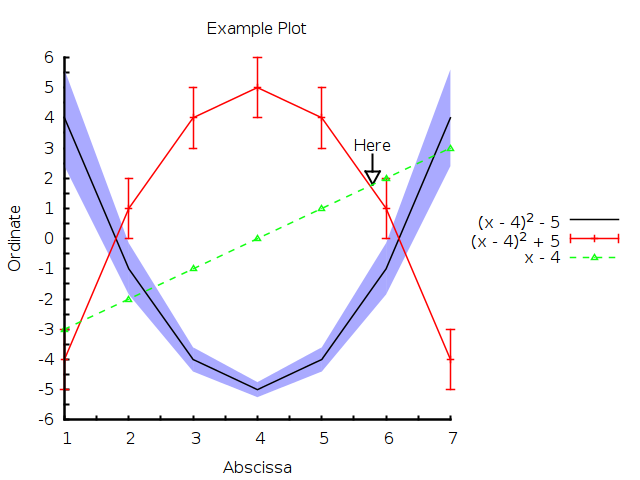
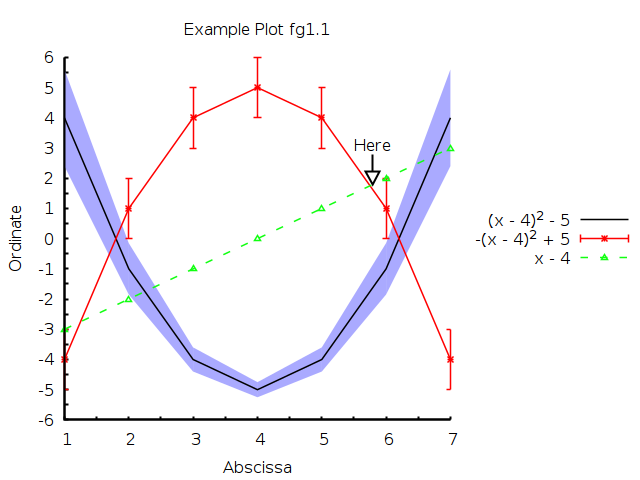
Fix label in the Readme example.
Fixes #46.

diff --git a/examples/example1.rs b/examples/example1.rs
@@ -76,7 +76,7 @@ fn example(c: Common)
 			x,
 			y2,
 			repeat(1.0f32),
-			&[Caption("(x - 4)^2 + 5"), LineWidth(1.5), Color("red")],
+			&[Caption("-(x - 4)^2 + 5"), LineWidth(1.5), Color("red")],
 		)
 		.lines_points(
 			x,
@@ -297,7 +297,7 @@ fn example(c: Common)
 		.points(
 			x,
 			y2,
-			&[Caption("(x - 4)^2 + 5"), PointSymbol('S'), Color("#ffaa77")],
+			&[Caption("-(x - 4)^2 + 5"), PointSymbol('S'), Color("#ffaa77")],
 		)
 		.lines_points(
 			x,
